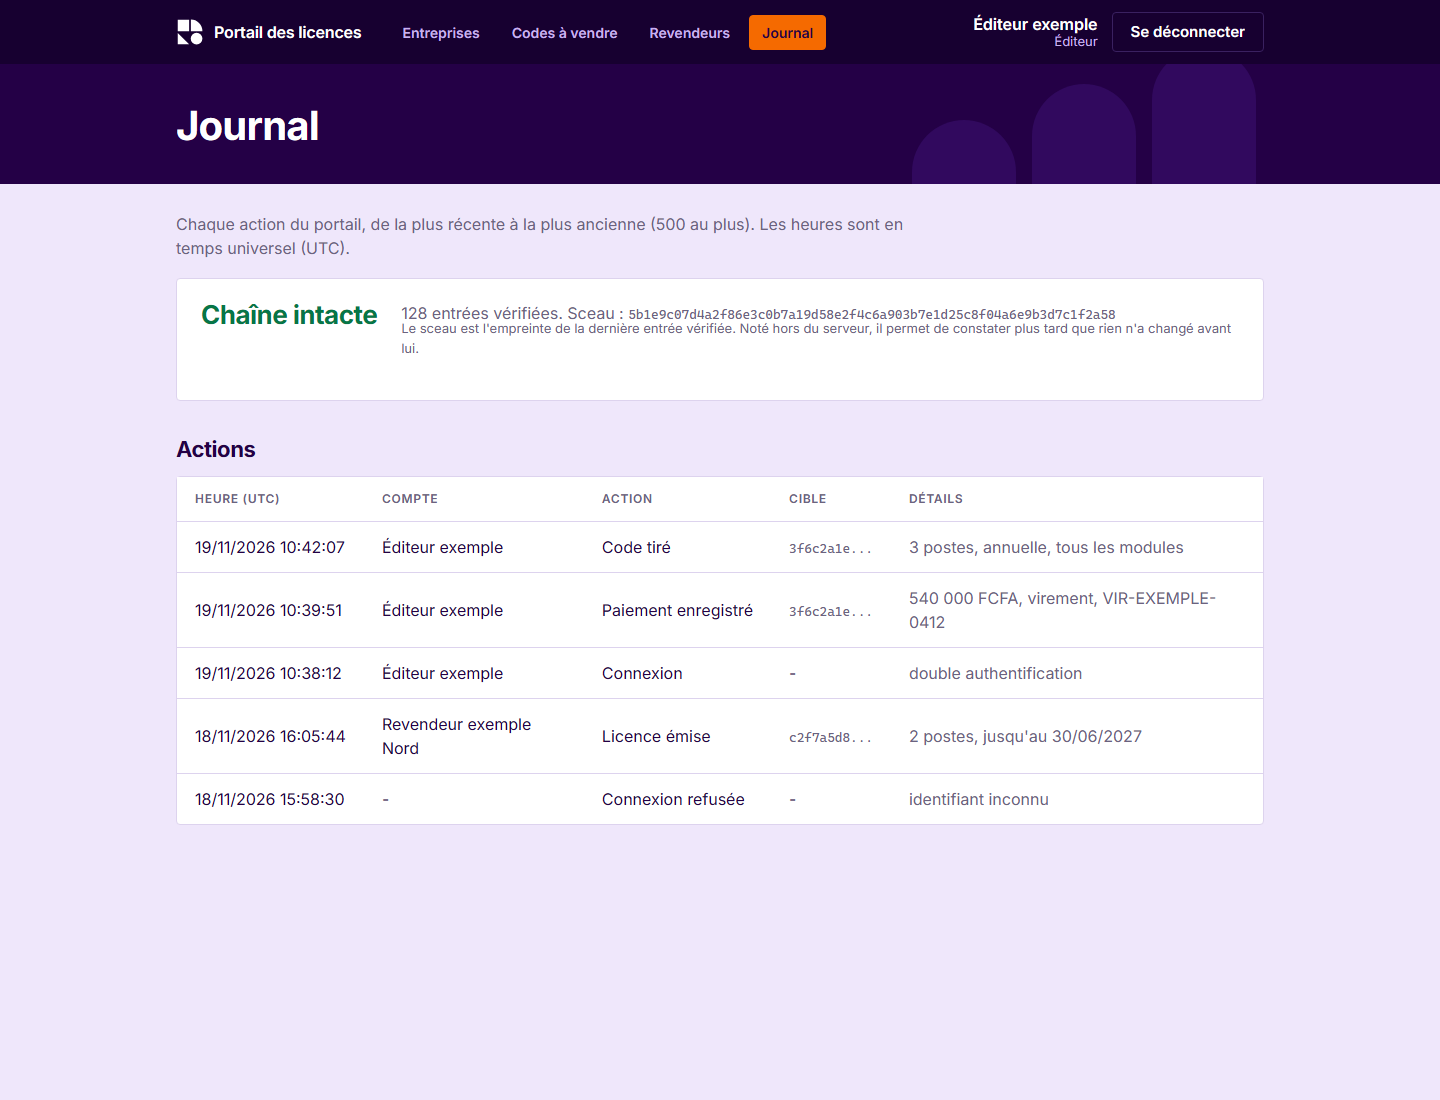
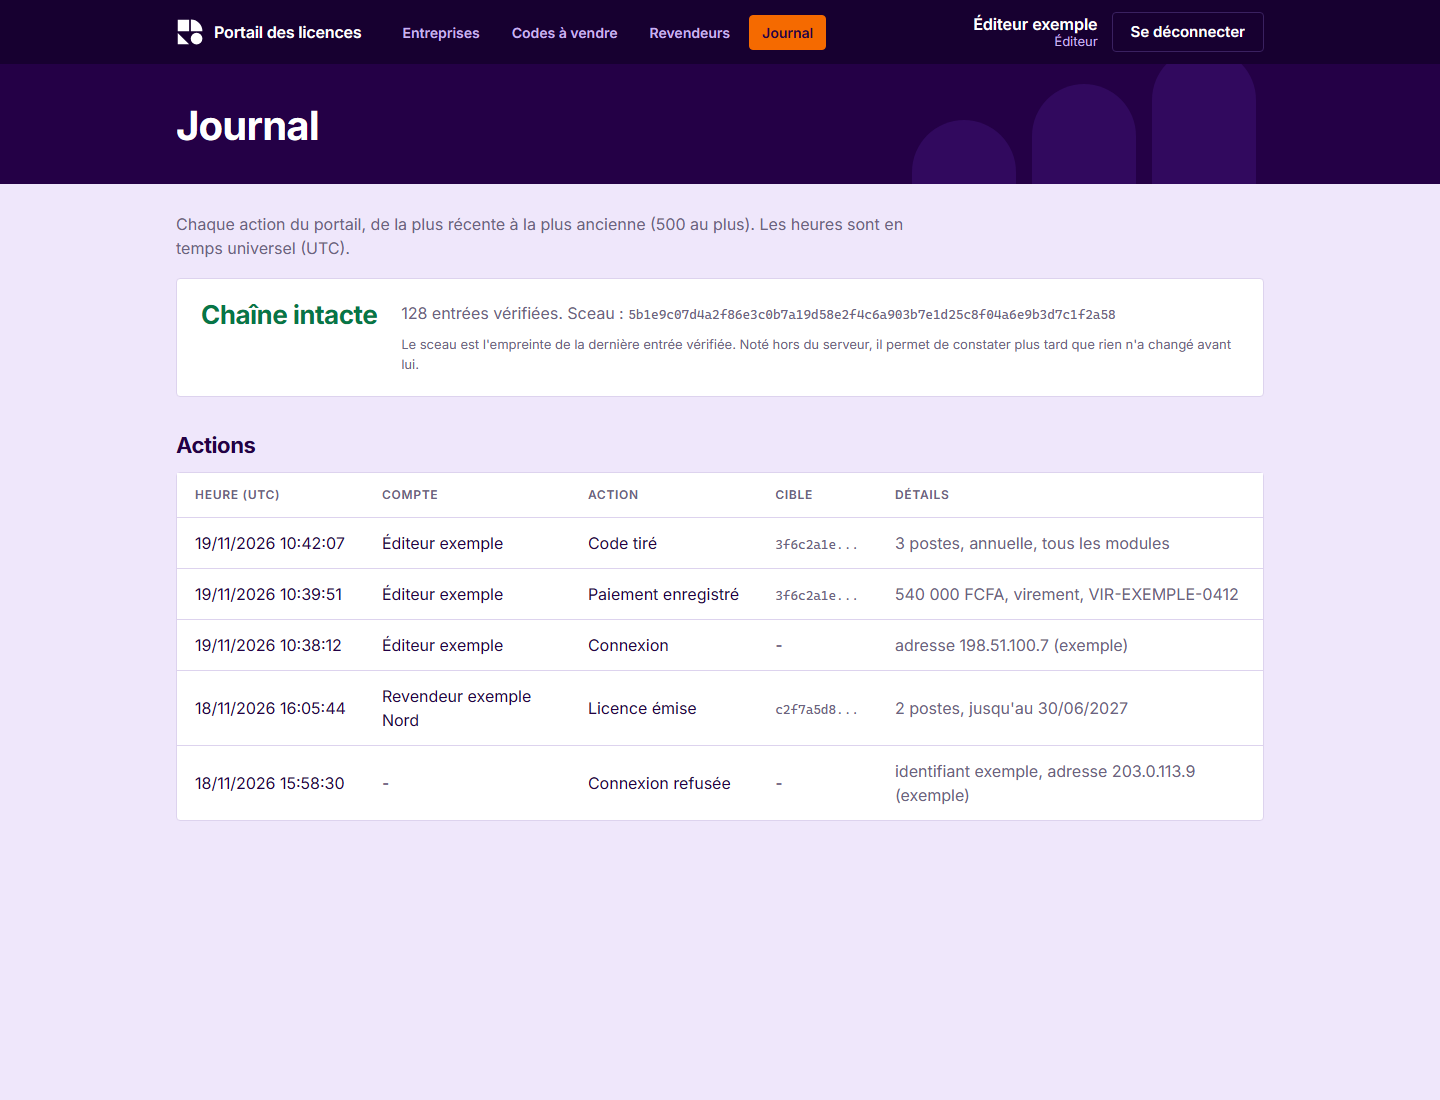
Marque : pages intérieures du portail reprises et corrigées (aides, bouton du titre, exemples du journal)

diff --git a/docs/marque/propositions-2026-11-19-portail/interieur-journal.html b/docs/marque/propositions-2026-11-19-portail/interieur-journal.html
@@ -21,7 +21,7 @@
 </div>
 </header>
 <main class="contenu">
-<div class="titre-page"><div><h1>Journal</h1></div><div class="titre-actions"></div></div><p class="texte">Chaque action du portail, de la plus récente à la plus ancienne (500 au plus). Les heures sont en temps universel (UTC).</p><div class="carte"><div class="carte-interieur"><div class="chaine"><span class="chaine-etat">Chaîne intacte</span><p class="chaine-detail">128 entrées vérifiées. Sceau : <span class="identifiant">5b1e9c07d4a2f86e3c0b7a19d58e2f4c6a903b7e1d25c8f04a6e9b3d7c1f2a58</span></p><p class="aide">Le sceau est l'empreinte de la dernière entrée vérifiée. Noté hors du serveur, il permet de constater plus tard que rien n'a changé avant lui.</p></div></div></div><h2>Actions</h2><div class="carte"><div class="tableau-cadre"><table><thead><tr><th>Heure (UTC)</th><th>Compte</th><th>Action</th><th>Cible</th><th>Détails</th></tr></thead><tbody><tr><td class="court" data-libelle="Heure (UTC)">19/11/2026 10:42:07</td><td data-libelle="Compte">Éditeur exemple</td><td class="court" data-libelle="Action">Code tiré</td><td class="court" data-libelle="Cible"><span class="identifiant identifiant-court">3f6c2a1e...</span></td><td class="details" data-libelle="Détails">3 postes, annuelle, tous les modules</td></tr><tr><td class="court" data-libelle="Heure (UTC)">19/11/2026 10:39:51</td><td data-libelle="Compte">Éditeur exemple</td><td class="court" data-libelle="Action">Paiement enregistré</td><td class="court" data-libelle="Cible"><span class="identifiant identifiant-court">3f6c2a1e...</span></td><td class="details" data-libelle="Détails">540 000 FCFA, virement, VIR-EXEMPLE-0412</td></tr><tr><td class="court" data-libelle="Heure (UTC)">19/11/2026 10:38:12</td><td data-libelle="Compte">Éditeur exemple</td><td class="court" data-libelle="Action">Connexion</td><td class="court" data-libelle="Cible">-</td><td class="details" data-libelle="Détails">double authentification</td></tr><tr><td class="court" data-libelle="Heure (UTC)">18/11/2026 16:05:44</td><td data-libelle="Compte">Revendeur exemple Nord</td><td class="court" data-libelle="Action">Licence émise</td><td class="court" data-libelle="Cible"><span class="identifiant identifiant-court">c2f7a5d8...</span></td><td class="details" data-libelle="Détails">2 postes, jusqu'au 30/06/2027</td></tr><tr><td class="court" data-libelle="Heure (UTC)">18/11/2026 15:58:30</td><td data-libelle="Compte">-</td><td class="court" data-libelle="Action">Connexion refusée</td><td class="court" data-libelle="Cible">-</td><td class="details" data-libelle="Détails">identifiant inconnu</td></tr></tbody></table></div></div>
+<div class="titre-page"><div><h1>Journal</h1></div><div class="titre-actions"></div></div><p class="texte">Chaque action du portail, de la plus récente à la plus ancienne (500 au plus). Les heures sont en temps universel (UTC).</p><div class="carte"><div class="carte-interieur"><div class="chaine"><span class="chaine-etat">Chaîne intacte</span><p class="chaine-detail">128 entrées vérifiées. Sceau : <span class="identifiant">5b1e9c07d4a2f86e3c0b7a19d58e2f4c6a903b7e1d25c8f04a6e9b3d7c1f2a58</span></p><p class="aide">Le sceau est l'empreinte de la dernière entrée vérifiée. Noté hors du serveur, il permet de constater plus tard que rien n'a changé avant lui.</p></div></div></div><h2>Actions</h2><div class="carte"><div class="tableau-cadre"><table><thead><tr><th>Heure (UTC)</th><th>Compte</th><th>Action</th><th>Cible</th><th>Détails</th></tr></thead><tbody><tr><td class="court" data-libelle="Heure (UTC)">19/11/2026 10:42:07</td><td data-libelle="Compte">Éditeur exemple</td><td class="court" data-libelle="Action">Code tiré</td><td class="court" data-libelle="Cible"><span class="identifiant identifiant-court">3f6c2a1e...</span></td><td class="details" data-libelle="Détails">3 postes, annuelle, tous les modules</td></tr><tr><td class="court" data-libelle="Heure (UTC)">19/11/2026 10:39:51</td><td data-libelle="Compte">Éditeur exemple</td><td class="court" data-libelle="Action">Paiement enregistré</td><td class="court" data-libelle="Cible"><span class="identifiant identifiant-court">3f6c2a1e...</span></td><td class="details" data-libelle="Détails">540 000 FCFA, virement, VIR-EXEMPLE-0412</td></tr><tr><td class="court" data-libelle="Heure (UTC)">19/11/2026 10:38:12</td><td data-libelle="Compte">Éditeur exemple</td><td class="court" data-libelle="Action">Connexion</td><td class="court" data-libelle="Cible">-</td><td class="details" data-libelle="Détails">adresse 198.51.100.7 (exemple)</td></tr><tr><td class="court" data-libelle="Heure (UTC)">18/11/2026 16:05:44</td><td data-libelle="Compte">Revendeur exemple Nord</td><td class="court" data-libelle="Action">Licence émise</td><td class="court" data-libelle="Cible"><span class="identifiant identifiant-court">c2f7a5d8...</span></td><td class="details" data-libelle="Détails">2 postes, jusqu'au 30/06/2027</td></tr><tr><td class="court" data-libelle="Heure (UTC)">18/11/2026 15:58:30</td><td data-libelle="Compte">-</td><td class="court" data-libelle="Action">Connexion refusée</td><td class="court" data-libelle="Cible">-</td><td class="details" data-libelle="Détails">identifiant exemple, adresse 203.0.113.9 (exemple)</td></tr></tbody></table></div></div>
 </main>
 </body>
 </html>

diff --git a/docs/marque/propositions-2026-11-19-portail/interieur.css b/docs/marque/propositions-2026-11-19-portail/interieur.css
@@ -67,8 +67,8 @@ body { background: var(--lavande-pale); }
 .titre-page .identifiant { color: var(--lavande); display: block; margin-top: 10px; }
 .titre-actions { display: flex; gap: 8px; flex-wrap: wrap; }
 /* Sur la Nuit, le principal passe en Orange : le Violet n'y a que 2,5:1. */
-.titre-page .bouton-principal { background: var(--orange); border-color: var(--orange); color: var(--nuit-violette); }
-.titre-page .bouton-principal:hover { background: #FF7E1A; border-color: #FF7E1A; color: var(--nuit-violette); }
+.titre-page .bouton.bouton-principal { background: var(--orange); border-color: var(--orange); color: var(--nuit-violette); }
+.titre-page .bouton.bouton-principal:hover { background: #FF7E1A; border-color: #FF7E1A; color: var(--nuit-violette); }
 .titre-page .bouton { background: transparent; border-color: var(--lavande); color: var(--blanc); }
 .titre-page .bouton:hover { background: rgba(255, 255, 255, 0.08); color: var(--blanc); }
 .titre-page:has(+ .chiffres) { padding-bottom: 84px; margin-bottom: 0; }
@@ -147,6 +147,7 @@ td.details { overflow-wrap: anywhere; min-width: 260px; color: var(--gris-violet
 .chaine-etat { grid-row: span 2; color: var(--succes); font-size: 26px; font-weight: 700; letter-spacing: -0.02em; line-height: 1.1; }
 .chaine-etat.chaine-rompue { color: var(--erreur); }
 .chaine-detail { color: var(--gris-violet); margin: 0; }
+.chaine .aide { grid-column: 2; margin: 4px 0 0; }
 
 /* Formulaires du contenu */
 .formulaire { max-width: 680px; }

diff --git a/docs/marque/propositions-2026-11-19-portail/identite.css b/docs/marque/propositions-2026-11-19-portail/identite.css
@@ -198,9 +198,13 @@ a:hover {
 }
 
 .aide {
-  margin: -12px 0 20px;
+  margin: 0 0 16px;
   font-size: 13px;
   color: var(--gris-violet);
+}
+
+.champ .aide {
+  margin: 0;
 }
 
 .sombre .aide {

diff --git a/docs/marque/propositions-2026-11-19-portail/generer_interieur.py b/docs/marque/propositions-2026-11-19-portail/generer_interieur.py
@@ -220,9 +220,9 @@ def journal():
     actions = [
         ("19/11/2026 10:42:07", "Éditeur exemple", "Code tiré", "3f6c2a1e...", "3 postes, annuelle, tous les modules"),
         ("19/11/2026 10:39:51", "Éditeur exemple", "Paiement enregistré", "3f6c2a1e...", "540 000 FCFA, virement, VIR-EXEMPLE-0412"),
-        ("19/11/2026 10:38:12", "Éditeur exemple", "Connexion", "-", "double authentification"),
+        ("19/11/2026 10:38:12", "Éditeur exemple", "Connexion", "-", "adresse 198.51.100.7 (exemple)"),
         ("18/11/2026 16:05:44", REVENDEUR, "Licence émise", "c2f7a5d8...", "2 postes, jusqu'au 30/06/2027"),
-        ("18/11/2026 15:58:30", "-", "Connexion refusée", "-", "identifiant inconnu"),
+        ("18/11/2026 15:58:30", "-", "Connexion refusée", "-", "identifiant exemple, adresse 203.0.113.9 (exemple)"),
     ]
     lignes = [
         [(h, "court"), (c, ""), (a, "court"),

diff --git a/.claude/journal.md b/.claude/journal.md
@@ -905,3 +905,4 @@
 [2026-11-19 18:55:08] Instruction - L'utilisateur, après reconnexion : « reprends ». Construction du lot A (f5a2a37) relancée sur le Dell ; sessions redémarrées (orchestrateur désormais kadenz-dd, une seule autre session visible : kadenz-e6).
 [2026-11-19 18:59:41] Suivi - Propositions d'identité du portail par kadenz-e6 (ex kadenz-3a) relues par l'orchestrateur : planche (Nuit violette, Violet #7B2CBF, Orange #F56A00, Inter, arche sur la grille du symbole), connexion A (cadre sombre, portails en points) et B (carte, arches concentriques) ; aucune règle enfreinte ; retouche mobile de A demandée ; présentées à l'utilisateur avec trois écarts à trancher (police, couleur du symbole, étiquettes).
 [2026-11-19 19:00:21] Suggestion - Identité du portail des licences d'après les 7 références de l'utilisateur (kadenz-e6, ex kadenz-3a, avec kadenz-cb puis seule) : palette Nuit violette, Violet, Orange d'accent et dérivées avec contrastes calculés, police Inter, arche comme portail, symbole Kadenz gardé ; connexion A (cadre sombre, portails en points) et B (carte, arches concentriques), avec leur page de code ; pages intérieures reprises de kadenz-cb ; relu par kadenz-dd (portails retirés sous 860 px). Écarts à trancher par l'utilisateur : Inter au lieu d'Helvetica, symbole Violet sur clair, étiquettes à 4 px.
+[2026-11-19 19:01:38] Suivi - Pages intérieures du portail reprises de kadenz-cb (sortie de la liste) : textes d'aide décollés des champs, bouton principal du titre en Orange, exemples du journal au format réel (adresses de documentation), captures des six pages.
